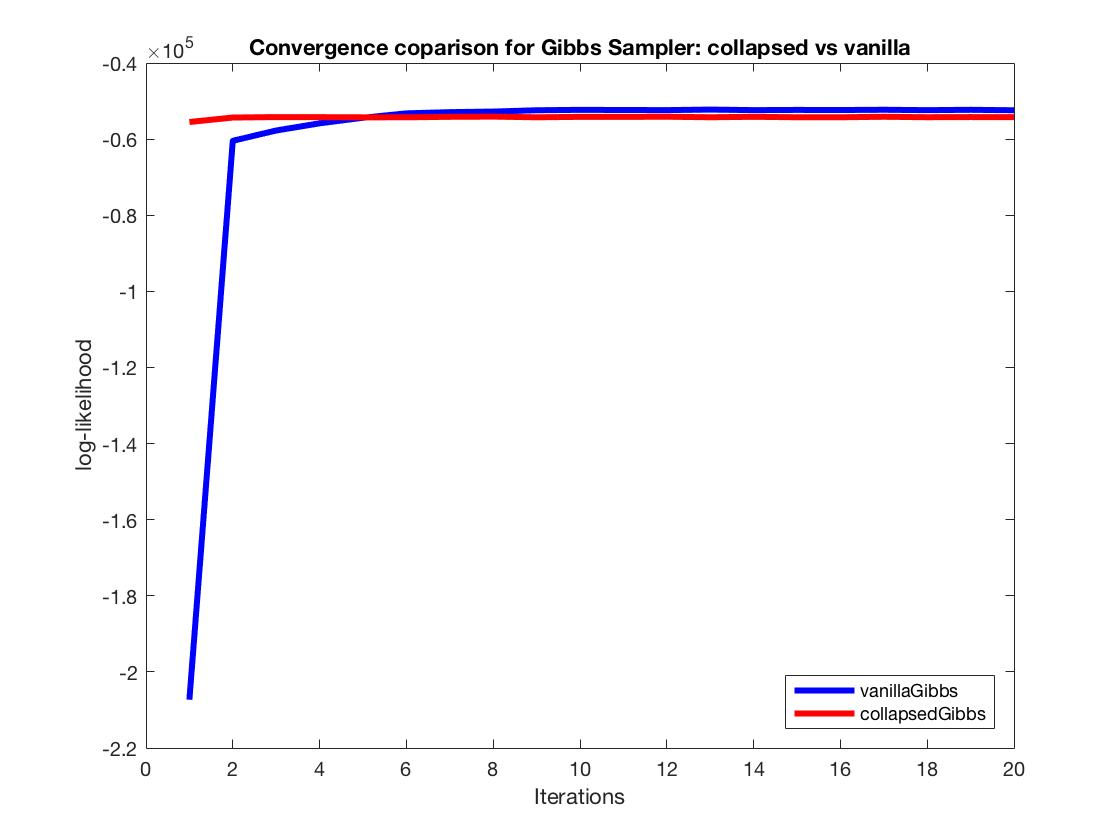
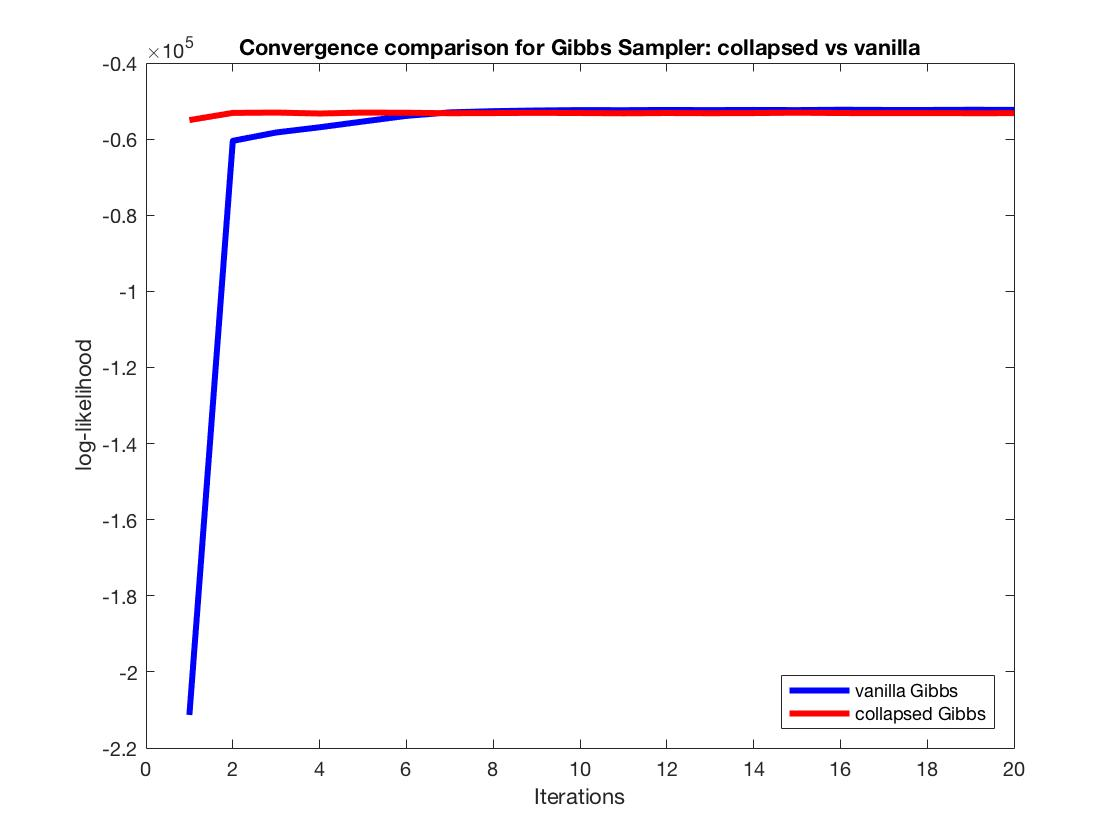
fixed type in plot title

diff --git a/Gibbs Bernoulli Mixture/gibbsBernoulliMixtureExample.m b/Gibbs Bernoulli Mixture/gibbsBernoulliMixtureExample.m
@@ -51,7 +51,7 @@ hold on
 plot(cLogLike(1:20),'r-','linewidth',3)
 xlabel('Iterations')
 ylabel('log-likelihood')
-legend('vanillaGibbs','collapsedGibbs','Location','southeast')
-title('Convergence coparison for Gibbs Sampler: collapsed vs vanilla')
+legend('vanilla Gibbs','collapsed Gibbs','Location','southeast')
+title('Convergence comparison for Gibbs Sampler: collapsed vs vanilla')
 
     
